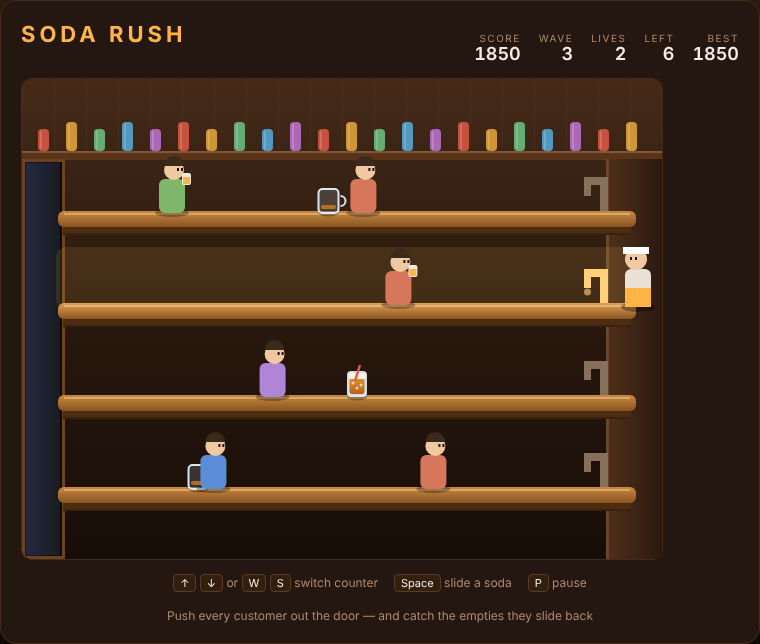
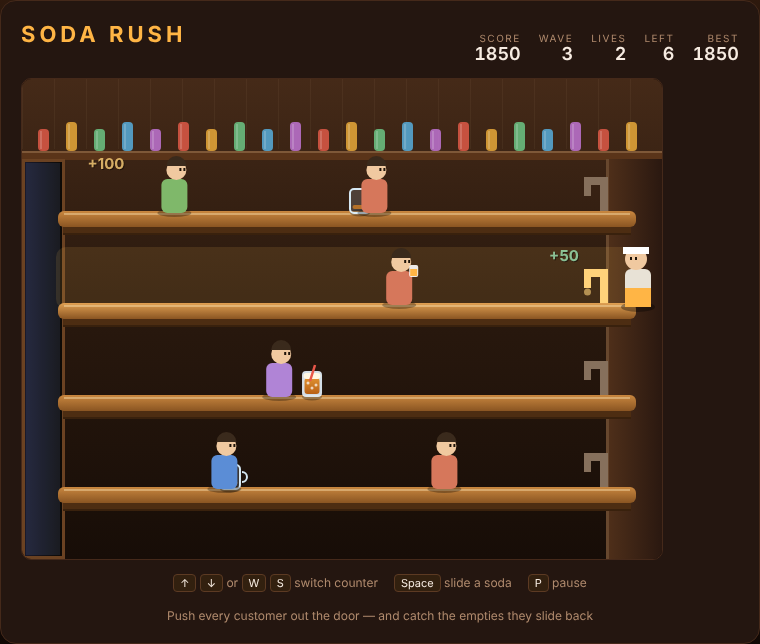
Tune Soda Rush pacing and add score popups
A scripted bot (serve the most urgent counter) was dying around wave 8
after five minutes and a do-nothing player lasted a minute, so wave 1
was too sleepy: customers now walk at 36 px/s rising to 78, and arrive
every 2.1 s falling to 0.9 s. The bot now goes out around wave 5-7.

Floating +100 / +50 / -25 popups mark each serve, catch and spill, with
three specs covering them (74 in total). Docs follow the new numbers.

Claude-Session: https://claude.ai/code/session_019M1bKnLsFUVxbX3naG1NrC

diff --git a/SodaRush/game.js b/SodaRush/game.js
@@ -55,9 +55,9 @@ const CATCH_X = 566;            // an empty reaching here is caught, if manned
 // --- Customers -----------------------------------------------------------
 const CUSTOMER_W = 34;
 const CUSTOMER_H = 52;
-const CUSTOMER_BASE_SPEED = 26; // px/s on wave 1
-const CUSTOMER_SPEED_STEP = 5;
-const CUSTOMER_SPEED_CAP = 62;
+const CUSTOMER_BASE_SPEED = 36; // px/s on wave 1
+const CUSTOMER_SPEED_STEP = 6;
+const CUSTOMER_SPEED_CAP = 78;
 const SPAWN_X = LANE_LEFT + CUSTOMER_W / 2;
 const GRAB_X = 556;             // a customer reaching here grabs the server
 const KNOCKBACK = 96;           // px a served customer is pushed back
@@ -67,8 +67,8 @@ const DRINK_TIME = 0.55;        // s a customer stands still drinking
 const QUOTA_BASE = 6;
 const QUOTA_STEP = 2;
 const QUOTA_CAP = 18;
-const SPAWN_BASE = 2.4, SPAWN_STEP = 0.15, SPAWN_MIN = 1.0;
-const FIRST_SPAWN = 1.0;
+const SPAWN_BASE = 2.1, SPAWN_STEP = 0.13, SPAWN_MIN = 0.9;
+const FIRST_SPAWN = 0.8;
 const WAVE_PAUSE = 1.2;         // s of calm between waves
 const DEATH_PAUSE = 0.9;        // s of calm after losing a life
 
@@ -95,6 +95,9 @@ let server = { lane: 0, cooldown: 0 };
 const customers = [];
 const sodas = [];
 const mugs = [];
+const popups = [];      // purely cosmetic floating score text
+
+const POPUP_LIFE = 0.9; // s
 
 let spawnEnabled = true;
 let spawnTimer = FIRST_SPAWN;
@@ -160,6 +163,11 @@ function clearCounter() {
     customers.length = 0;
     sodas.length = 0;
     mugs.length = 0;
+    popups.length = 0;
+}
+
+function popup(x, lane, text, colour) {
+    popups.push({ x, y: laneY(lane) - 30, text, colour, life: POPUP_LIFE });
 }
 
 function startGame() {
@@ -290,6 +298,12 @@ function step(dt) {
     moveMugs(dt);
     if (state !== 'running') return;
 
+    for (let i = popups.length - 1; i >= 0; i--) {
+        popups[i].life -= dt;
+        popups[i].y -= 26 * dt;
+        if (popups[i].life <= 0) popups.splice(i, 1);
+    }
+
     spawnTick(dt);
     updateHud();
 }
@@ -302,6 +316,7 @@ function moveSodas(dt) {
             sodas.splice(i, 1);
             spills += 1;
             score = Math.max(0, score - SPILL_PENALTY);
+            popup(LANE_LEFT + 14, s.lane, `-${SPILL_PENALTY}`, '#ef7b5b');
         }
     }
 }
@@ -336,6 +351,7 @@ function satisfy(customer) {
     score += SCORE_SATISFY;
     served += 1;
     mugs.push({ lane: customer.lane, x: LANE_LEFT + MUG_W / 2 });
+    popup(LANE_LEFT + 30, customer.lane, `+${SCORE_SATISFY}`, '#ffd27a');
     updateHud();
     if (served >= quotaFor(level)) clearWave();
 }
@@ -369,6 +385,7 @@ function moveMugs(dt) {
             mugs.splice(i, 1);
             caught += 1;
             score += SCORE_MUG;
+            popup(CATCH_X - 24, m.lane, `+${SCORE_MUG}`, '#9fe6b4');
             continue;
         }
         if (m.x - MUG_W / 2 > LANE_RIGHT) {
@@ -448,6 +465,7 @@ function draw() {
     for (const s of sodas) drawSoda(s);
     for (const c of customers) drawCustomer(c);
     drawServer();
+    drawPopups();
 }
 
 function drawRoom() {
@@ -657,6 +675,20 @@ function drawMug(m) {
     ctx.beginPath();
     ctx.arc(m.x + MUG_W / 2 + 2, top + MUG_H / 2, 5, -Math.PI / 2, Math.PI / 2);
     ctx.stroke();
+}
+
+function drawPopups() {
+    ctx.font = 'bold 15px "Segoe UI", system-ui, sans-serif';
+    ctx.textAlign = 'center';
+    for (const p of popups) {
+        ctx.globalAlpha = Math.max(0, Math.min(1, p.life / (POPUP_LIFE * 0.6)));
+        ctx.fillStyle = 'rgba(0, 0, 0, 0.55)';
+        ctx.fillText(p.text, p.x + 1, p.y + 1);
+        ctx.fillStyle = p.colour;
+        ctx.fillText(p.text, p.x, p.y);
+    }
+    ctx.globalAlpha = 1;
+    ctx.textAlign = 'start';
 }
 
 function drawServer() {

diff --git a/SodaRush/tests/soda-rush.spec.js b/SodaRush/tests/soda-rush.spec.js
@@ -777,6 +777,46 @@ test.describe('Soda Rush', () => {
     });
 
     // -----------------------------------------------------------------------
+    // Score popups (cosmetic, but they should never outlive a round)
+    // -----------------------------------------------------------------------
+    test.describe('score popups', () => {
+        test('serving a customer out of the door raises a popup', async ({ page }) => {
+            await startQuiet(page);
+            const snap = await page.evaluate(() => {
+                const cx = LANE_LEFT + 20;
+                customers.push({ lane: 2, x: cx, state: 'walking', timer: 0, drinks: 0 });
+                sodas.push({ lane: 2, x: cx + CUSTOMER_W / 2 + SODA_W / 2 + 2 });
+                step(1 / 60);
+                return { count: popups.length, text: popups[0] && popups[0].text };
+            });
+            expect(snap).toEqual({ count: 1, text: `+${await page.evaluate(() => SCORE_SATISFY)}` });
+        });
+
+        test('a popup drifts up and expires', async ({ page }) => {
+            await startQuiet(page);
+            const snap = await page.evaluate(() => {
+                popup(200, 0, '+100', '#fff');
+                const y0 = popups[0].y;
+                for (let i = 0; i < 10; i++) step(1 / 60);
+                const rose = popups[0].y < y0;
+                for (let i = 0; i < 120; i++) step(1 / 60);
+                return { rose, left: popups.length };
+            });
+            expect(snap).toEqual({ rose: true, left: 0 });
+        });
+
+        test('popups are cleared when a life is lost', async ({ page }) => {
+            await startQuiet(page);
+            const left = await page.evaluate(() => {
+                popup(200, 0, '+100', '#fff');
+                loseLife();
+                return popups.length;
+            });
+            expect(left).toBe(0);
+        });
+    });
+
+    // -----------------------------------------------------------------------
     // Rendering
     // -----------------------------------------------------------------------
     test.describe('rendering', () => {

diff --git a/SodaRush/DESIGN.md b/SodaRush/DESIGN.md
@@ -26,7 +26,7 @@ collisions are a one-dimensional problem per lane.
 ### Customers
 
 - Arrive at the doorway end and walk right at `customerSpeedFor(level)`
-  px/s (26 on wave 1, +5 per wave, capped at 62).
+  px/s (36 on wave 1, +6 per wave, capped at 78).
 - A customer that reaches `GRAB_X` (just short of the fountain) grabs the
   server: **one life lost**.
 - A lane only accepts a new arrival when its left end is clear, so customers
@@ -64,7 +64,7 @@ collisions are a one-dimensional problem per lane.
 - Clearing awards `WAVE_BONUS * level` (250 × wave), then a `WAVE_PAUSE` break
   of 1.2 s with the counters cleared before the next wave starts.
 - Each wave speeds customers up and shortens the spawn interval
-  (`spawnIntervalFor`: 2.4 s, −0.15 s per wave, floor 1.0 s, with ±20% jitter).
+  (`spawnIntervalFor`: 2.1 s, −0.13 s per wave, floor 0.9 s, with ±20% jitter).
 
 ### Lives
 
@@ -108,13 +108,13 @@ can read and drive.
 
 ## Testing
 
-`tests/soda-rush.spec.js` — 71 Playwright specs, written before the
+`tests/soda-rush.spec.js` — 74 Playwright specs, written before the
 implementation. They cover the idle screen and HUD, starting and restarting,
 lane movement, serve cooldown and per-lane limits, soda travel and spills,
 customer walking, knockback and drinking, front-of-queue targeting,
 satisfaction and the empty glass it sends back, catching and smashing empties,
 wave quotas and bonuses, deterministic spawning, pausing, lives, game over,
-best-score persistence and rendering.
+best-score persistence, score popups and rendering.
 
 Two conventions keep them stable:
 
@@ -150,5 +150,9 @@ Decisions made without being asked, taking the simpler reading each time:
 7. **Mug speed is constant.** Customers get faster each wave but returning
    empties do not; the rising pressure comes from arrival rate and walking
    speed, which is easier to read as a player.
-8. **Best score only.** One `localStorage` key (`soda-rush-best`); no profile,
+8. **Pacing was tuned against a scripted bot.** A simple "serve the most
+   urgent counter" bot plays five seeded games; the speeds and spawn
+   intervals above are the ones that put it out around wave 5–7 after three
+   to four minutes, with a do-nothing player surviving about 45 seconds.
+9. **Best score only.** One `localStorage` key (`soda-rush-best`); no profile,
    no per-wave history.

diff --git a/SodaRush/README.md b/SodaRush/README.md
@@ -18,7 +18,7 @@ floor.
 - **Catch the empties.** Stand at a counter and the glass sliding down it is
   caught automatically. Miss one and it smashes — another life.
 - **Do not waste glasses.** A soda that runs the whole counter without reaching
-  anybody spills and costs you 25 points.
+  anybody spills and costs you 25 points — annoying, but never fatal.
 - **Clear the wave.** Satisfy the wave's quota of customers for a bonus. Each
   wave brings customers in faster and makes them walk quicker.
 
